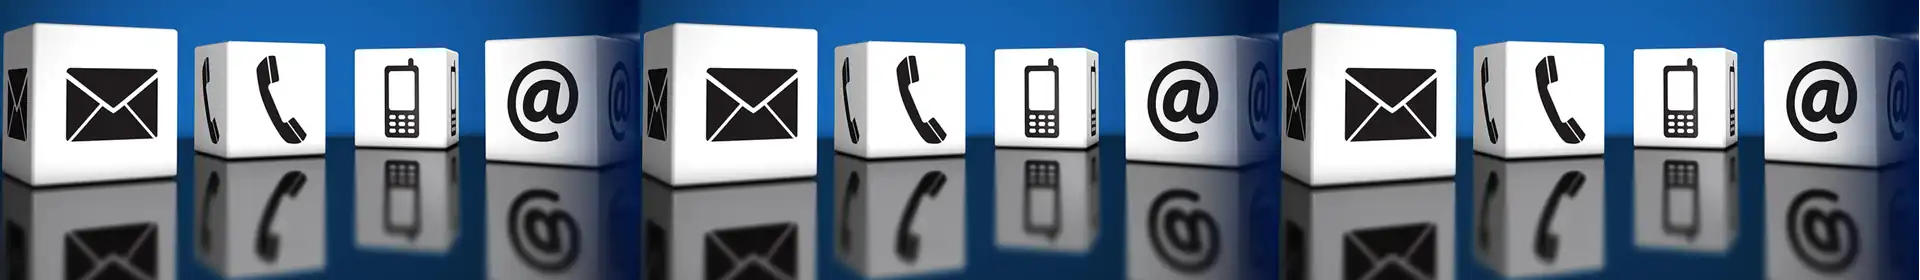
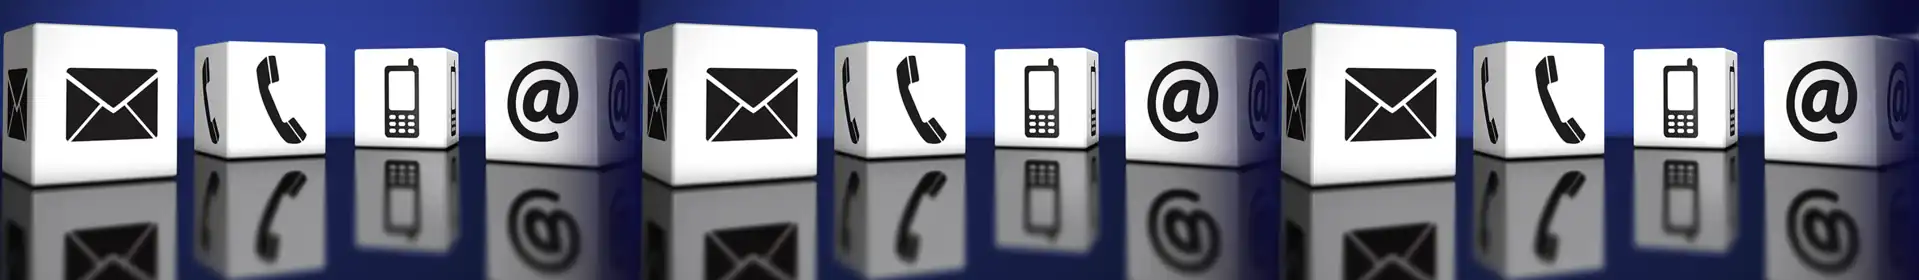
mobile dev update

Changed region(s): [[0.6562, 0.0, 0.9688, 0.4857], [0.3438, 0.0, 0.625, 0.4857], [0.0, 0.0, 0.2812, 0.4857]]

diff --git a/docs/app_nl.css b/docs/app_nl.css
@@ -2921,7 +2921,7 @@ input:focus, textarea:focus, select:focus
    display: table;
    text-align: center;
    width: 100%;
-   background-image: linear-gradient(to right, #DCDCDC 0%, #000000 100%);
+   //background-image: linear-gradient(to right, #DCDCDC 0%, #000000 100%);
    border: 0px solid #CCCCCC;
    box-sizing: border-box;
    margin: 0;
@@ -3077,7 +3077,7 @@ input:focus, textarea:focus, select:focus
    right: 0;
    bottom: 0;
    left: 0;
-   background-image: linear-gradient(to top, #0000A7 0%, rgba(0,0,167,0.00) 100%);
+   background-image: linear-gradient(to top, #070589 0%, rgba(2,0,139,0.00) 100%);
 }
 #wb_features
 {
@@ -3351,7 +3351,7 @@ input:focus, textarea:focus, select:focus
    right: 0;
    bottom: 0;
    left: 0;
-   background-image: linear-gradient(to top, #00008B 0%, rgba(0,0,139,0.00) 100%);
+   background-image: linear-gradient(to top, #070589 0%, rgba(2,0,139,0.00) 100%);
 }
 #wb_producten .parallax
 {
@@ -3467,7 +3467,7 @@ input:focus, textarea:focus, select:focus
    right: 0;
    bottom: 0;
    left: 0;
-   background-image: linear-gradient(to top, #00008B 0%, rgba(0,0,139,0.00) 100%);
+   background-image: linear-gradient(to top, #070589 0%, rgba(2,0,139,0.00) 100%);
 }
 #wb_about .parallax
 {
@@ -3653,7 +3653,7 @@ input:focus, textarea:focus, select:focus
    right: 0;
    bottom: 0;
    left: 0;
-   background-image: linear-gradient(to top, #000080 0%, rgba(0,0,128,0.00) 100%);
+   background-image: linear-gradient(to top, #070589 0%, rgba(2,0,139,0.00) 128%);
 }
 #wb_contact .parallax
 {
@@ -5457,7 +5457,11 @@ img#collage_hero_img_5 {
 	
 	/* override linear gradient from WebBuilder: make sure logo and menu are both clearly visible */
 	//background-image: linear-gradient(to right, #DCDCDC 0%, #DCDCDC 30%, #767676 45%, #000000 100%);
-	background-image: radial-gradient(circle at 8em 7em, rgb(240,240,240) 0%, rgb(240,240,240) 2%, rgb(140,140,140) 18%, rgb(0,0,0) 85%);
+	//background-image: radial-gradient(circle at 8em 7em, rgb(240,240,240) 0%, rgb(240,240,240) 2%, rgb(140,140,140) 18%, rgb(0,0,0) 85%);
+	//background-image: radial-gradient(circle at 8em -3em, rgb(229 226 255) 14%, rgb(234 231 255) 34%, rgb(47 44 131) 74%, rgb(7 6 136) 86%);
+	background-image: radial-gradient(circle at 8em -3em, rgb(229 226 255) 8%, rgb(234 231 255) 10%, rgb(47 44 131) 29%, rgb(7 6 136) 86%);
+	
+	filter: drop-shadow(2px 2px 6px black);
 }
 
 #wb_home {
@@ -6067,7 +6071,9 @@ name {
 
 	#wb_header {
 		/* override linear gradient from WebBuilder: make sure logo and menu are both clearly visible */
-		background-image: radial-gradient(circle at 8em 7em, rgb(240,240,240) 0%, rgb(240,240,240) 2%, rgb(140,140,140) 27%, rgb(0,0,0) 85%);
+		//background-image: radial-gradient(circle at 8em 7em, rgb(240,240,240) 0%, rgb(240,240,240) 2%, rgb(140,140,140) 27%, rgb(0,0,0) 85%);
+		//background-image: radial-gradient(circle at 8em -3em, rgb(229 226 255) 14%, rgb(234 231 255) 34%, rgb(47 44 131) 74%, rgb(7 6 136) 86%);
+		background-image: radial-gradient(circle at 8em -3em, rgb(229 226 255) 12%, rgb(234 231 255) 19%, rgb(47 44 131) 35%, rgb(7 6 136) 86%);
 	}
 
 	#location > .col-1, #location > .col-2, #location > .col-3 {
@@ -6249,7 +6255,9 @@ name {
 	#wb_header
 	{
 	   //background-image: linear-gradient(to right, #DCDCDC 0%, #DCDCDC 40%, #000000 100%);
- 	background-image: radial-gradient(circle at 8em 7em, rgb(240,240,240) 0%, rgb(240,240,240) 2%, rgb(140,140,140) 43%, rgb(0,0,0) 85%);
+		//background-image: radial-gradient(circle at 8em 7em, rgb(240,240,240) 0%, rgb(240,240,240) 2%, rgb(140,140,140) 43%, rgb(0,0,0) 85%);
+		// background-image: radial-gradient(circle at 8em -3em, rgb(229 226 255) 14%, rgb(234 231 255) 34%, rgb(47 44 131) 74%, rgb(7 6 136) 86%);
+		background-image: radial-gradient(circle at 8em -3em, rgb(229 226 255) 20%, rgb(234 231 255) 23%, rgb(47 44 131) 57%, rgb(7 6 136) 86%);
 	}
 
 	#wb_anniversary-45yr {
@@ -6394,7 +6402,9 @@ name {
 	#wb_header
 	{
 	   //background-image: linear-gradient(to right, #DCDCDC 0%, #DCDCDC 40%, #000000 100%);
- 	background-image: radial-gradient(circle at 8em 7em, rgb(240,240,240) 0%, rgb(240,240,240) 10%, rgb(140,140,140) 52%, rgb(0,0,0) 80%);
+		//background-image: radial-gradient(circle at 8em 7em, rgb(240,240,240) 0%, rgb(240,240,240) 10%, rgb(140,140,140) 52%, rgb(0,0,0) 80%);
+		//background-image: radial-gradient(circle at 8em -3em, rgb(229 226 255) 14%, rgb(234 231 255) 34%, rgb(47 44 131) 74%, rgb(7 6 136) 86%);
+		background-image: radial-gradient(circle at 8em -3em, rgb(229 226 255) 14%, rgb(234 231 255) 34%, rgb(47 44 131) 70%, rgb(7 6 136) 86%);
 	}
 
 	#collage_infochunks > div:last-child {
@@ -6458,6 +6468,11 @@ name {
 		font-size: calc(100vw / 24);
 	}
 
+	#wb_header
+	{
+		background-image: radial-gradient(circle at 6em -3em, rgb(229 226 255) 34%, rgb(234 231 255) 39%, rgb(47 44 131) 72%, rgb(7 6 136) 86%);
+	}
+
 	h1 {
 	  font-size: 150%;
 	}
@@ -6497,7 +6512,9 @@ name {
 
 	#wb_header
 	{
-		background-image: radial-gradient(circle at 7em 7em, rgb(240,240,240) 0%, rgb(240,240,240) 10%, rgb(140,140,140) 52%, rgb(0,0,0) 86%);
+		//background-image: radial-gradient(circle at 7em 7em, rgb(240,240,240) 0%, rgb(240,240,240) 10%, rgb(140,140,140) 52%, rgb(0,0,0) 86%);
+		//background-image: radial-gradient(circle at 8em -3em, rgb(229 226 255) 14%, rgb(234 231 255) 34%, rgb(47 44 131) 74%, rgb(7 6 136) 86%);
+		background-image: radial-gradient(circle at 6em 1em, rgb(229 226 255) 38%, rgb(234 231 255) 42%, rgb(47 44 131) 69%, rgb(7 6 136) 86%);
 	}
 
 	body {
@@ -6553,6 +6570,13 @@ name {
 
 	body {
 		font-size: calc(100vw / 22);
+	}
+	
+	#wb_header
+	{
+		//background-image: radial-gradient(circle at 7em 7em, rgb(240,240,240) 0%, rgb(240,240,240) 10%, rgb(140,140,140) 52%, rgb(0,0,0) 86%);
+		//background-image: radial-gradient(circle at 8em -3em, rgb(229 226 255) 14%, rgb(234 231 255) 34%, rgb(47 44 131) 74%, rgb(7 6 136) 86%);
+		background-image: radial-gradient(circle at 7em 1em, rgb(229 226 255) 38%, rgb(234 231 255) 44%, rgb(47 44 131) 69%, rgb(7 6 136) 86%);
 	}
 
 	h1 {
